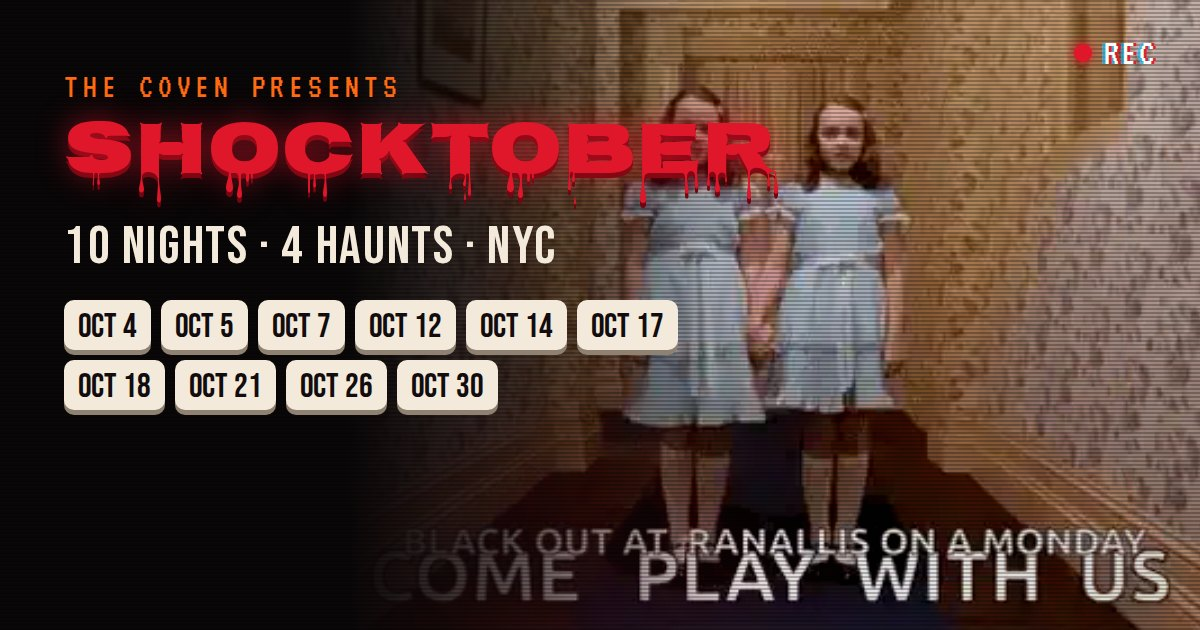
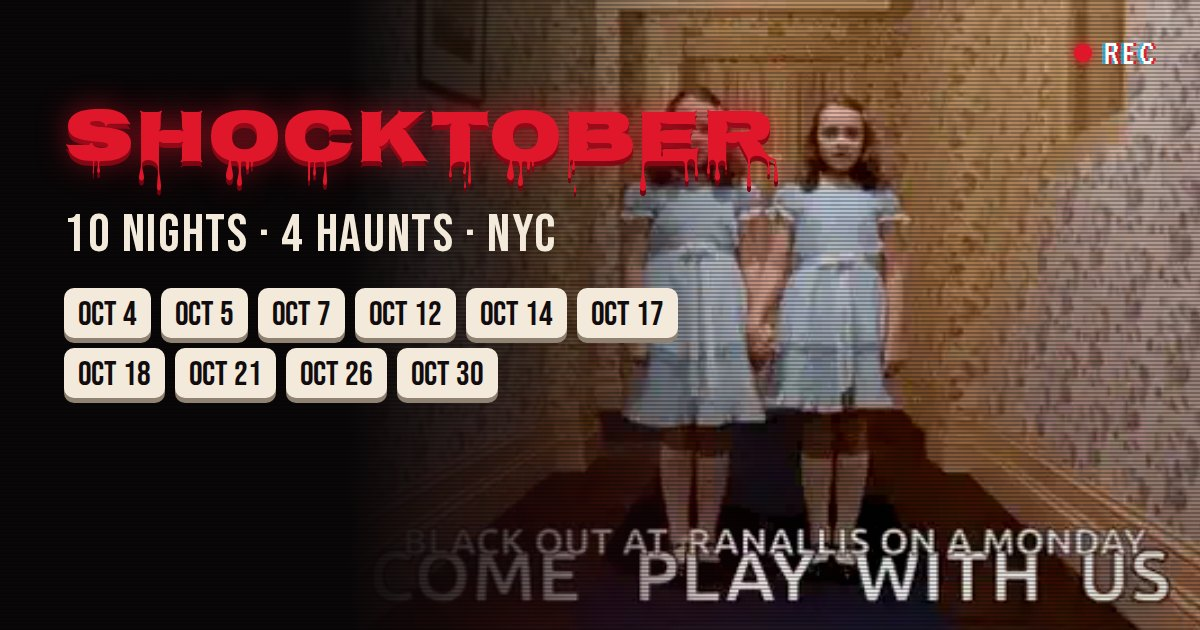
Remove 'the coven presents' and the 'The Nights' heading
Drops hostedBy from the config, page hero and preview image, and the
nights section heading with its candles sticker.

Claude-Session: https://claude.ai/code/session_018bSzALw72jyqwWAZwwzV6M

Changed region(s): [[0.0308, 0.1206, 0.6475, 0.4222], [0.0308, 0.4524, 0.5858, 0.6635]]

diff --git a/site/styles.css b/site/styles.css
@@ -89,20 +89,11 @@ button { font: inherit; color: inherit; }
 .hero-stage { position: relative; }
 .s-bats-hero { width: 84px; left: -4px; bottom: -26px; transform: rotate(-7deg); border: 3px solid var(--ink); }
 .s-skull { width: 78px; top: -6px; right: 0; transform: rotate(7deg); border: 3px solid var(--ink); }
-.s-candles { width: 96px; top: -4px; right: 0; transform: rotate(-5deg); border: 3px solid var(--ink); }
 .s-rewind { width: 92px; top: -8px; right: 0; transform: rotate(6deg); border: 3px solid var(--ink); }
 .s-jason { width: 110px; bottom: 8px; right: 0; transform: rotate(-4deg); border: 3px solid var(--ink); }
 
 /* ── hero ────────────────────────────────────────────────────────────────── */
 .hero { position: relative; text-align: center; }
-.kicker {
-  display: inline-flex; align-items: center; gap: 8px;
-  font: 400 20px/1 var(--f-vhs);
-  letter-spacing: 0.12em;
-  text-transform: uppercase;
-  color: var(--muted);
-  margin: 6px 0 14px;
-}
 .rec-dot {
   display: inline-block; width: 9px; height: 9px; border-radius: 50%;
   background: var(--blood);
@@ -547,7 +538,7 @@ a.fact .sub { color: var(--ink); text-decoration: underline; text-decoration-col
   .h2 { font-size: 56px; }
   .wrap { overflow-x: visible; }
   .s-bats-hero { width: 120px; left: -44px; }
-  .s-skull, .s-candles, .s-rewind { right: -40px; width: 110px; }
+  .s-skull, .s-rewind { right: -40px; width: 110px; }
 }
 
 /* ── motion off ──────────────────────────────────────────────────────────── */

diff --git a/site/og.html b/site/og.html
@@ -16,8 +16,7 @@
   .tr { top: 34px; right: 44px; display: flex; gap: 12px; align-items: center; }
   .tr i { width: 18px; height: 18px; border-radius: 50%; background: #e0162b; box-shadow: 0 0 12px #e0162b; display: inline-block; }
   .br { bottom: 30px; right: 44px; }
-  .content { position: absolute; left: 64px; top: 70px; width: 720px; }
-  .kicker { font-size: 34px; letter-spacing: .14em; color: #ff6a13; text-transform: uppercase; }
+  .content { position: absolute; left: 64px; top: 92px; width: 720px; }
   h1 { margin: 14px 0 0; font: 400 104px/1 "Nosifer", sans-serif; color: #e0162b; text-shadow: 0 0 30px rgba(224,22,43,.6), 0 5px 0 #6e0510; white-space: nowrap; }
   .sub { margin-top: 26px; font: 400 54px/1 "Bebas Neue", sans-serif; letter-spacing: .03em; }
   .dates { margin-top: 26px; display: flex; gap: 10px; flex-wrap: wrap; width: 640px; }
@@ -29,7 +28,6 @@
   <div class="bg"></div><div class="shade"></div><div class="scan"></div>
   <div class="osd tr"><i></i>REC</div>
   <div class="content">
-    <div class="kicker" id="kicker"></div>
     <h1 id="title"></h1>
     <div class="sub" id="sub"></div>
     <div class="dates" id="dates"></div>

diff --git a/site/index.html b/site/index.html
@@ -43,7 +43,6 @@
   <main class="wrap">
     <!-- ── HERO ─────────────────────────────────────────── -->
     <header class="hero">
-      <div class="kicker"><span class="rec-dot"></span> %HOSTED_BY% presents</div>
 
       <div class="hero-stage">
       <figure class="vhs hero-media">
@@ -84,9 +83,7 @@
     </section>
 
     <!-- ── NIGHTS ───────────────────────────────────────── -->
-    <section class="block" id="nights" aria-labelledby="nights-h">
-      <img class="sticker s-candles" src="assets/gifs/candles.webp" alt="" aria-hidden="true" loading="lazy">
-      <h2 class="h2" id="nights-h">The Nights</h2>
+    <section class="block" id="nights" aria-label="The nights">
       <div id="night-list" class="night-list"></div>
     </section>
 
